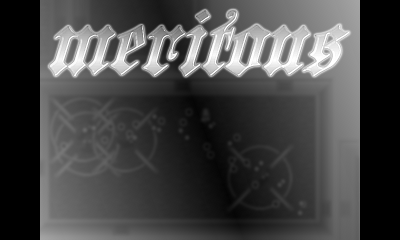
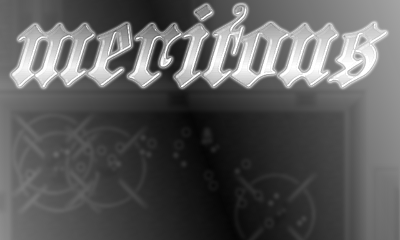
rework backgrounds for 400x240, fix minor potential bugs

diff --git a/src/levelblit.c b/src/levelblit.c
@@ -50,7 +50,7 @@
 #define SCREEN_W 400
 #define SCREEN_H 240
 
-#define MERITOUS_VERSION "v 1.2"
+#define MERITOUS_VERSION "v 1.21"
 
 int RECORDING = 0;
 int PLAYBACK = 0;
@@ -531,7 +531,7 @@ static	int precalc_sine[400];
 
 			SDL_BlitSurface(title_pr, NULL, screen, NULL);
 
-			draw_text(40 + 17, 156/2, MERITOUS_VERSION, 112 + sin((float)ticker_tick / 15)*30);
+			draw_text(17, 92, MERITOUS_VERSION, 112 + sin((float)ticker_tick / 15)*30);
 			if (can_continue) draw_text((SCREEN_W - 14*8)/2, 155, "Continue", 255);
 			draw_text((SCREEN_W - 14*8)/2, 155 + can_continue*10, "New Game", 255);
 			draw_text((SCREEN_W - 14*8)/2, 165 + can_continue*10, "New Game (Wuss mode)", 255);
@@ -2781,7 +2781,9 @@ void DrawArtifacts()
 
 void Swap(int *a, int *b)
 {
-	*a ^= *b ^= *a ^= *b;
+	int t = *a;
+	*a = *b;
+	*b = t;
 }
 
 void ThinLine(SDL_Surface *scr, int x1, int y1, int x2, int y2, Uint8 col)

diff --git a/src/help.c b/src/help.c
@@ -59,7 +59,9 @@ void InitHelp()
 
 	fp = fopen("romfs:/d/helpfile.txt", "r");
 	while (!feof(fp)) {
-		fgets(linebuf, 79, fp);
+		if (fgets(linebuf, 79, fp) == NULL)
+			break;
+
 		while (linebuf[strlen(linebuf)-1] == '\n' ||
 		       linebuf[strlen(linebuf)-1] == '\r')
 			linebuf[strlen(linebuf)-1] = 0;

diff --git a/src/demon.c b/src/demon.c
@@ -2119,7 +2119,7 @@ void DrawGem(struct diamond *g)
 
 void xprintf(char *s)
 {
-	printf(s);
+	printf("%s", s);
 	fflush(stdout);
 }
 
